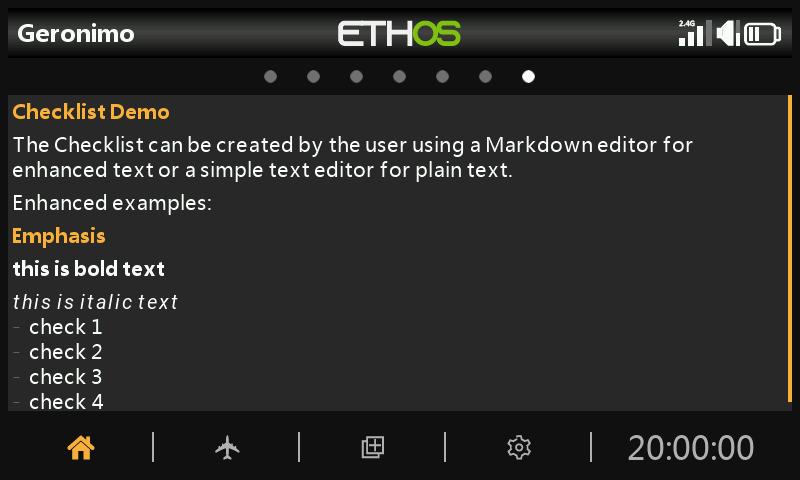
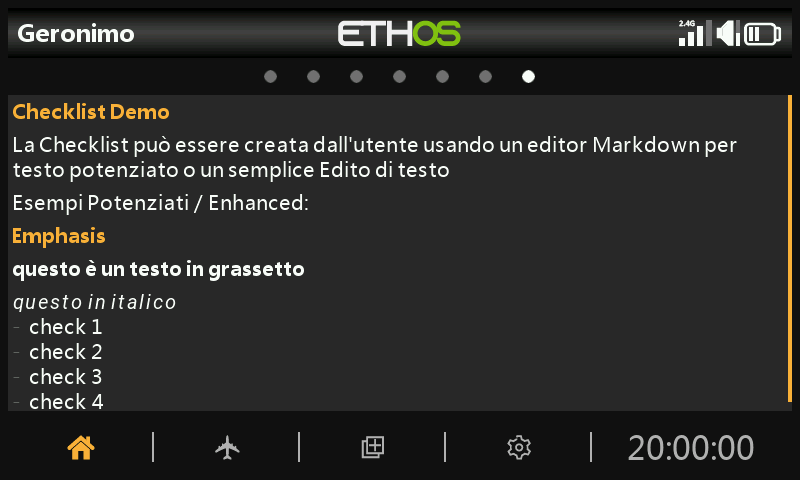
Update IT assets with Italian .md files

Changed region(s): [[0.0, 0.2812, 0.9375, 0.375], [0.0, 0.5312, 0.375, 0.6562], [0.0312, 0.4062, 0.4062, 0.4375]]

diff --git a/italian_lt/manual/models/zblank.md b/italian_lt/manual/models/zblank.md
@@ -1,14 +1,14 @@
 ## Checklist Demo
 
-The Checklist can be created by the user using a Markdown editor for enhanced text or a simple text editor for plain text.
+La Checklist può essere creata dall'utente usando un editor Markdown per testo potenziato o un semplice Edito di testo
 
-Enhanced examples:
+Esempi Potenziati / Enhanced:
 
 ## Emphasis
 
-**this is bold text**
+**questo è un testo in grassetto**
 
-*this is italic text*
+*questo in italico*
 
 - check 1
 - check 2

diff --git a/italian_lt/manual/sd/documents/user/geronimo.md b/italian_lt/manual/sd/documents/user/geronimo.md
@@ -1,14 +1,14 @@
 ## Checklist Demo
 
-The Checklist can be created by the user using a Markdown editor for enhanced text or a simple text editor for plain text.
+La Checklist può essere creata dall'utente usando un editor Markdown per testo potenziato o un semplice Edito di testo
 
-Enhanced examples:
+Esempi Potenziati / Enhanced:
 
 ## Emphasis
 
-**this is bold text**
+**questo è un testo in grassetto**
 
-*this is italic text*
+*questo in italico*
 
 - check 1
 - check 2

diff --git a/italian_lt/manual/sd/documents/user/zblank.md b/italian_lt/manual/sd/documents/user/zblank.md
@@ -1,14 +1,14 @@
 ## Checklist Demo
 
-The Checklist can be created by the user using a Markdown editor for enhanced text or a simple text editor for plain text.
+La Checklist può essere creata dall'utente usando un editor Markdown per testo potenziato o un semplice Edito di testo
 
-Enhanced examples:
+Esempi Potenziati / Enhanced:
 
 ## Emphasis
 
-**this is bold text**
+**questo è un testo in grassetto**
 
-*this is italic text*
+*questo in italico*
 
 - check 1
 - check 2
